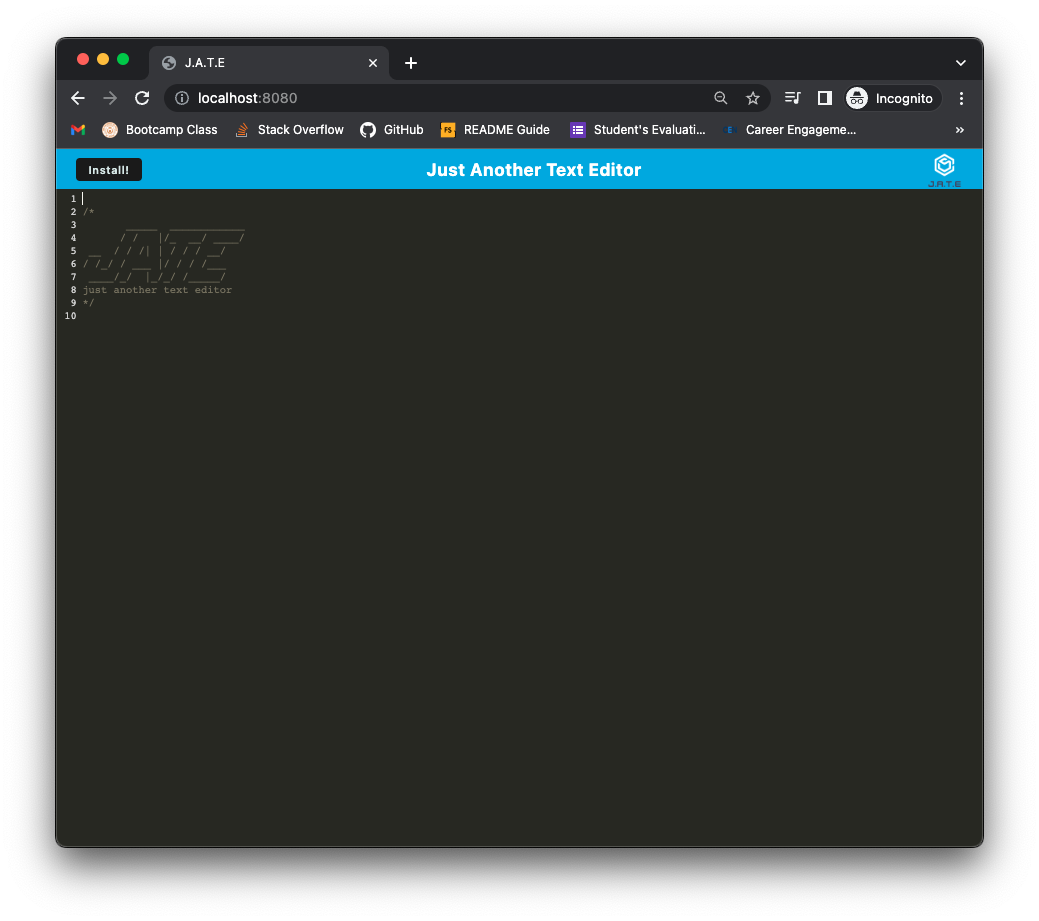
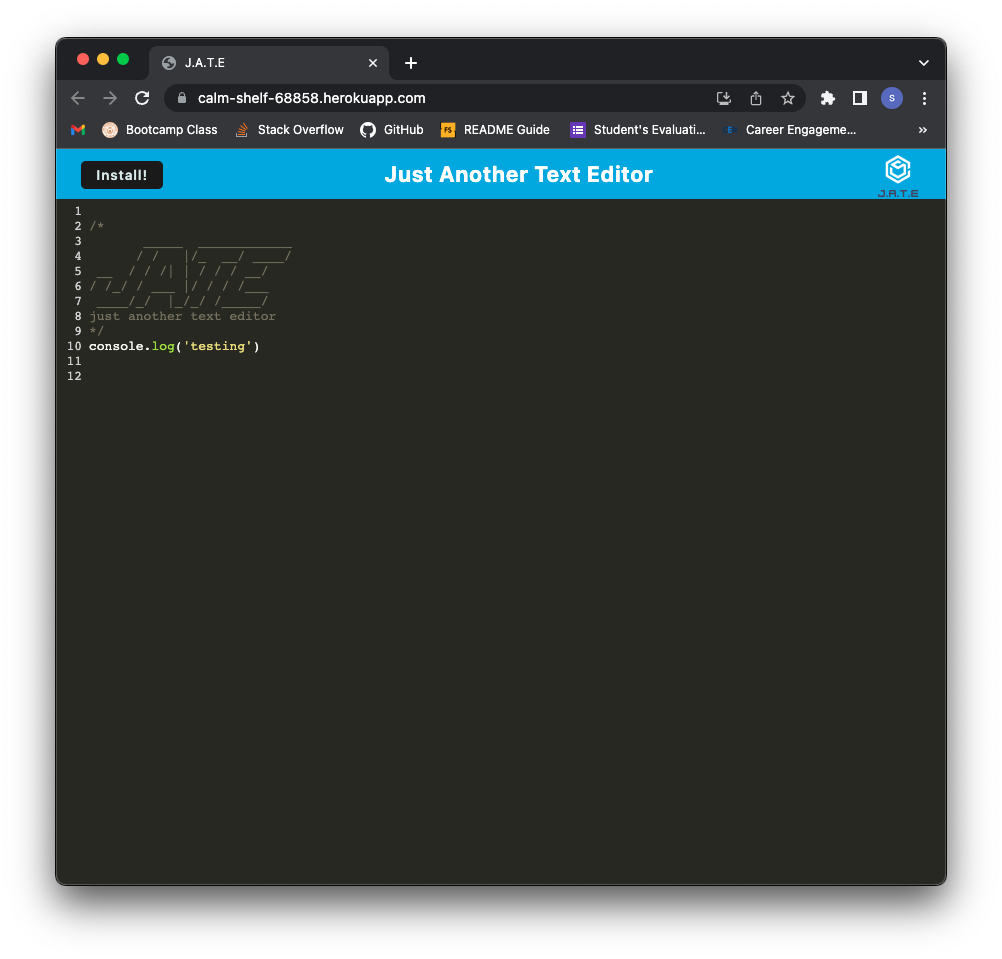
add live link readme

Changed region(s): [[0.0309, 0.0304, 0.9591, 0.9121], [0.0619, 0.9121, 0.9281, 0.9425]]

diff --git a/README.md b/README.md
@@ -17,7 +17,7 @@ A text editor that runs in the browser, is a single-page app that meets PWA crit
 
 ## Usage
 
-View on [Heroku]() 
+View on [Heroku](https://calm-shelf-68858.herokuapp.com/) 
 
 ![JATE](./assets/demo.png)
 
